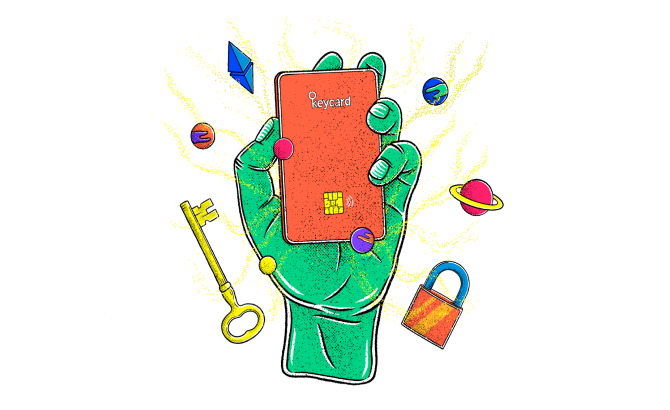
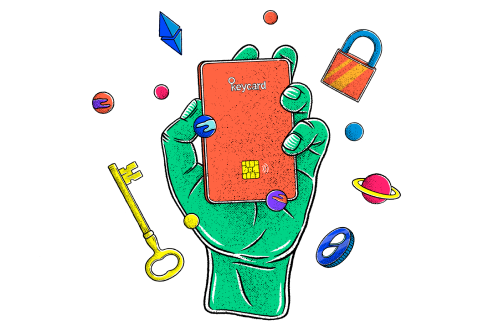
chore: update CreateKeycardProfilePage image asset

Changed region(s): [[0.1786, 0.0305, 0.8036, 0.9756]]

diff --git a/ui/app/AppLayouts/Onboarding2/pages/CreateKeycardProfilePage.qml b/ui/app/AppLayouts/Onboarding2/pages/CreateKeycardProfilePage.qml
@@ -54,7 +54,7 @@ OnboardingPage {
                         spacing: 24
                         StatusImage {
                             Layout.alignment: Qt.AlignHCenter
-                            Layout.preferredWidth: Math.min(268, parent.width)
+                            Layout.preferredWidth: Math.min(252, parent.width)
                             Layout.preferredHeight: Math.min(164, height)
                             source: Theme.png("onboarding/status_generate_keycard")
                             mipmap: true
